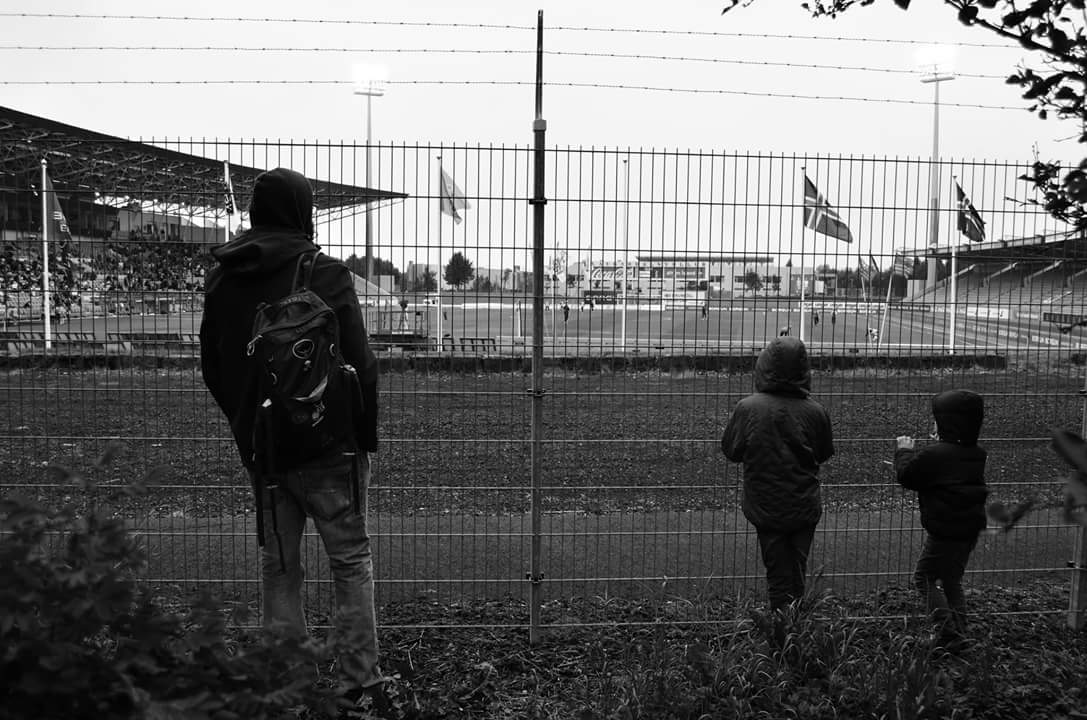
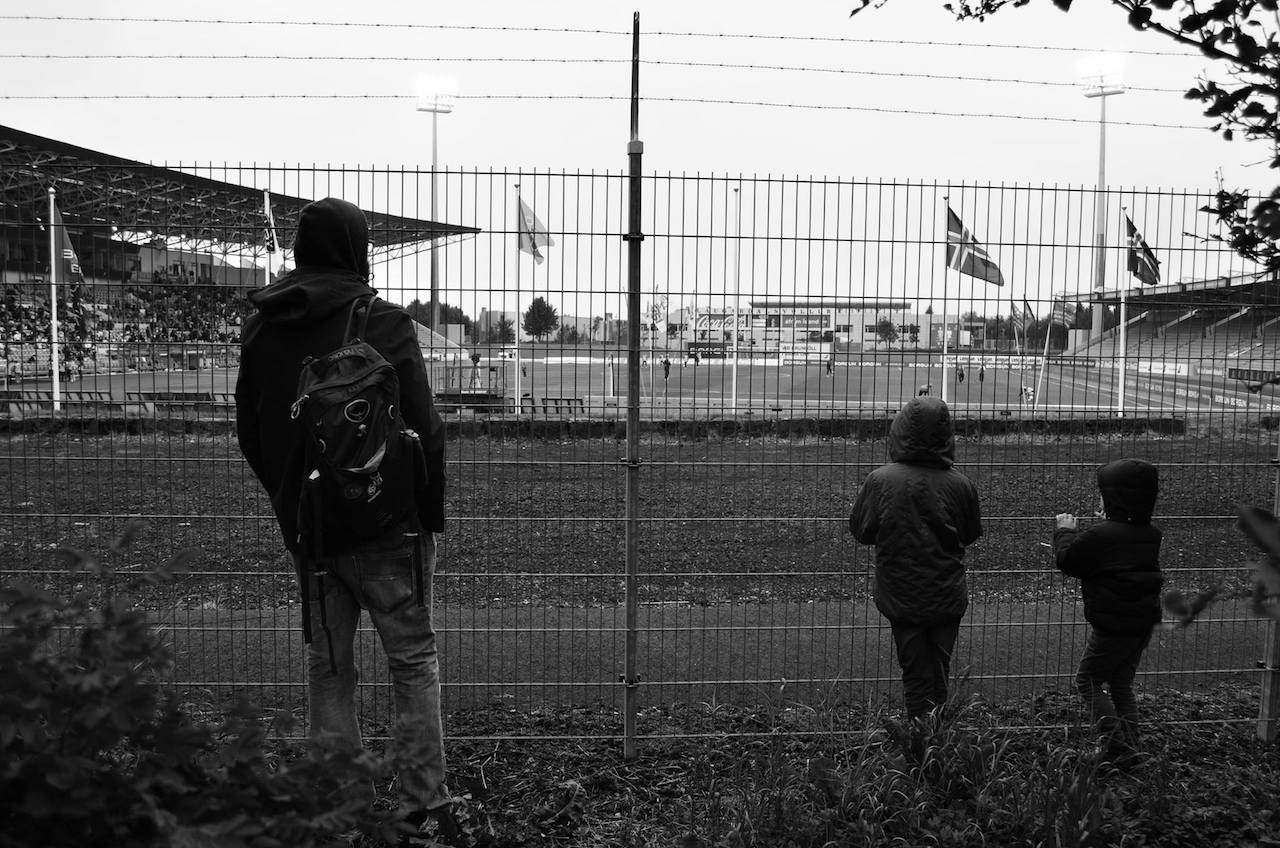
better image quality + bump

diff --git a/Gruntfile.js b/Gruntfile.js
@@ -5,7 +5,7 @@ module.exports = function( grunt ) {
   var swPrecache = require('sw-precache');
   var path = require('path');
 
-  var cacheVersion = 29;
+  var cacheVersion = 30;
 
   grunt.registerMultiTask('swPrecache', function(){
     var done = this.async();
